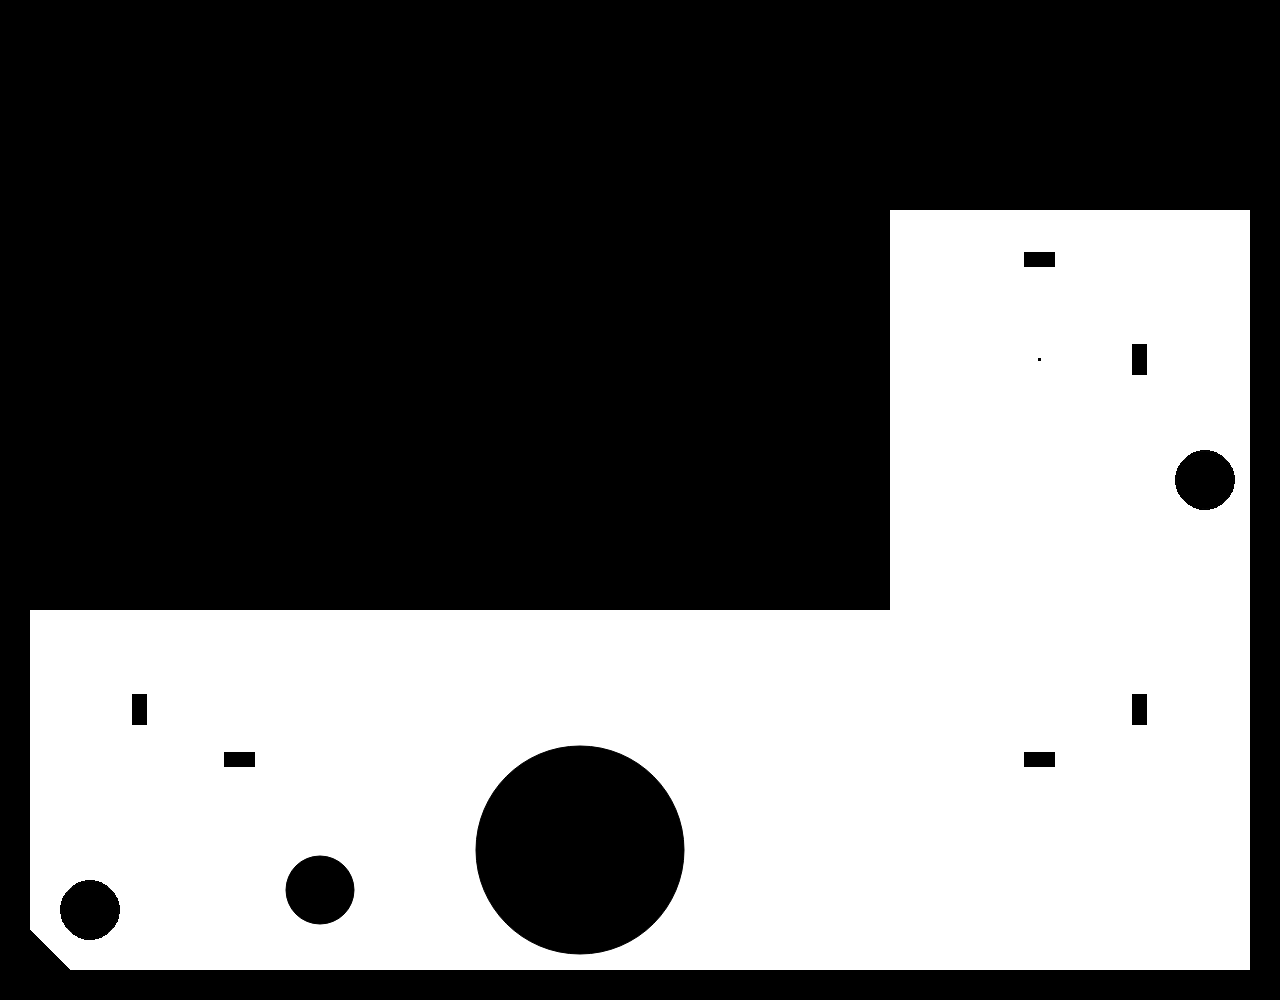
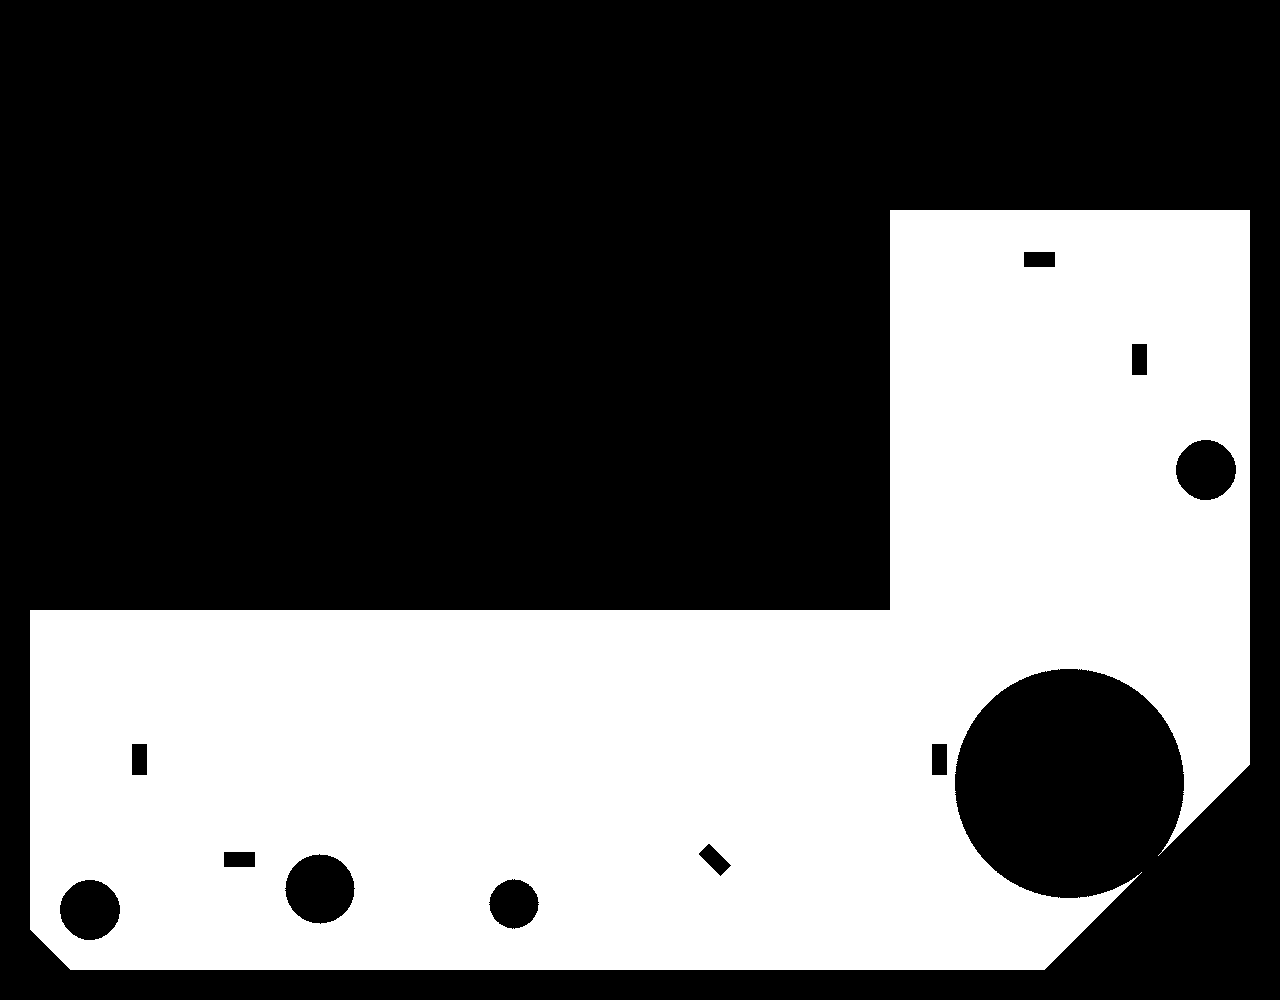
fixed map added comprehensive launch

diff --git a/robot_camera/launch/real_camera_launch.py b/robot_camera/launch/real_camera_launch.py
@@ -1,0 +1,35 @@
+import os
+from ament_index_python.packages import get_package_share_directory
+from launch import LaunchDescription
+from launch.actions import IncludeLaunchDescription
+from launch.launch_description_sources import PythonLaunchDescriptionSource
+from launch_ros.actions import Node
+
+def generate_launch_description():
+	nav2_launch = os.path.join(get_package_share_directory('robot_base'), 'launch', 'real_nav_launch.py')
+	usb_cam_launch = os.path.join(get_package_share_directory('robot_camera'), 'launch', 'usb_cam_launch.py')
+	image_proc_launch = os.path.join(get_package_share_directory('robot_camera'), 'launch', 'image_proc_launch.py')
+	apriltag_launch = os.path.join(get_package_share_directory('robot_camera'), 'launch', 'april_tag_launch.py')
+	
+	nav2_include = IncludeLaunchDescription(PythonLaunchDescriptionSource(nav2_launch))
+	usb_cam_include = IncludeLaunchDescription(PythonLaunchDescriptionSource(usb_cam_launch))
+	image_proc_include = IncludeLaunchDescription(PythonLaunchDescriptionSource(image_proc_launch))
+	apriltag_include = IncludeLaunchDescription(PythonLaunchDescriptionSource(apriltag_launch))
+
+	return LaunchDescription([
+		nav2_include,
+		usb_cam_include,
+		image_proc_include,
+		apriltag_include,
+		Node(
+			package='robot_camera',
+			executable='static_tag_broadcaster',
+			name = 'static_tag_broadcaster',
+		),
+		Node(
+			package='robot_camera',
+			executable='pose_lookup_transform',
+			name = 'pose_lookup_transform',
+		)
+	])
+

diff --git a/robot_camera/launch/sim_camera_launch.py b/robot_camera/launch/sim_camera_launch.py
@@ -1,0 +1,35 @@
+import os
+from ament_index_python.packages import get_package_share_directory
+from launch import LaunchDescription
+from launch.actions import IncludeLaunchDescription
+from launch.launch_description_sources import PythonLaunchDescriptionSource
+from launch_ros.actions import Node
+
+def generate_launch_description():
+	nav2_launch = os.path.join(get_package_share_directory('robot_base'), 'launch', 'sim_nav_launch.py')
+	usb_cam_launch = os.path.join(get_package_share_directory('robot_camera'), 'launch', 'usb_cam_launch.py')
+	image_proc_launch = os.path.join(get_package_share_directory('robot_camera'), 'launch', 'image_proc_launch.py')
+	apriltag_launch = os.path.join(get_package_share_directory('robot_camera'), 'launch', 'april_tag_launch.py')
+	
+	nav2_include = IncludeLaunchDescription(PythonLaunchDescriptionSource(nav2_launch))
+	usb_cam_include = IncludeLaunchDescription(PythonLaunchDescriptionSource(usb_cam_launch))
+	image_proc_include = IncludeLaunchDescription(PythonLaunchDescriptionSource(image_proc_launch))
+	apriltag_include = IncludeLaunchDescription(PythonLaunchDescriptionSource(apriltag_launch))
+
+	return LaunchDescription([
+		nav2_include,
+		usb_cam_include,
+		image_proc_include,
+		apriltag_include,
+		Node(
+			package='robot_camera',
+			executable='static_tag_broadcaster',
+			name = 'static_tag_broadcaster',
+		),
+		Node(
+			package='robot_camera',
+			executable='pose_lookup_transform',
+			name = 'pose_lookup_transform',
+		)
+	])
+

diff --git a/robot_camera/robot_camera/static_tag_broadcaster.py b/robot_camera/robot_camera/static_tag_broadcaster.py
@@ -39,10 +39,10 @@ def main():
     
     # hard code a list of tags, should eventually be a parameter
     tag_list = []
-    tag_list.append([33, -9.0, -3.5, 0.175, 0.5, 0.5, 0.5, 0.5])
-    tag_list.append([34, -8.0, -4.0, 0.175, 0.0, 0.0, 0.7071068, 0.7071068])
-    tag_list.append([35, 0.0, -4.0, 0.175, 0.0, 0.0, 0.7071068, 0.7071068])
-    tag_list.append([36, 1.0, -3.5, 0.175, 0.5, 0.5, -0.5, -0.5])
+    tag_list.append([33, -9.0, -4.0, 0.175, 0.5, 0.5, 0.5, 0.5])
+    tag_list.append([34, -8.0, -5.0, 0.175, 0.0, 0.0, 0.7071068, 0.7071068])
+    tag_list.append([35, -3.25, -5.0, 0.175, 0.2705981, 0.2705981, 0.6532815, 0.6532815])
+    tag_list.append([36, -1.0, -4.0, 0.175, 0.5, 0.5, -0.5, -0.5])
     tag_list.append([37, 1.0, 0.0, 0.175, 0.5, 0.5, -0.5, -0.5])
     tag_list.append([38, 0.0, 1.0, 0.175, 0.7071068, 0.7071068, 0.0, 0.0])
     
